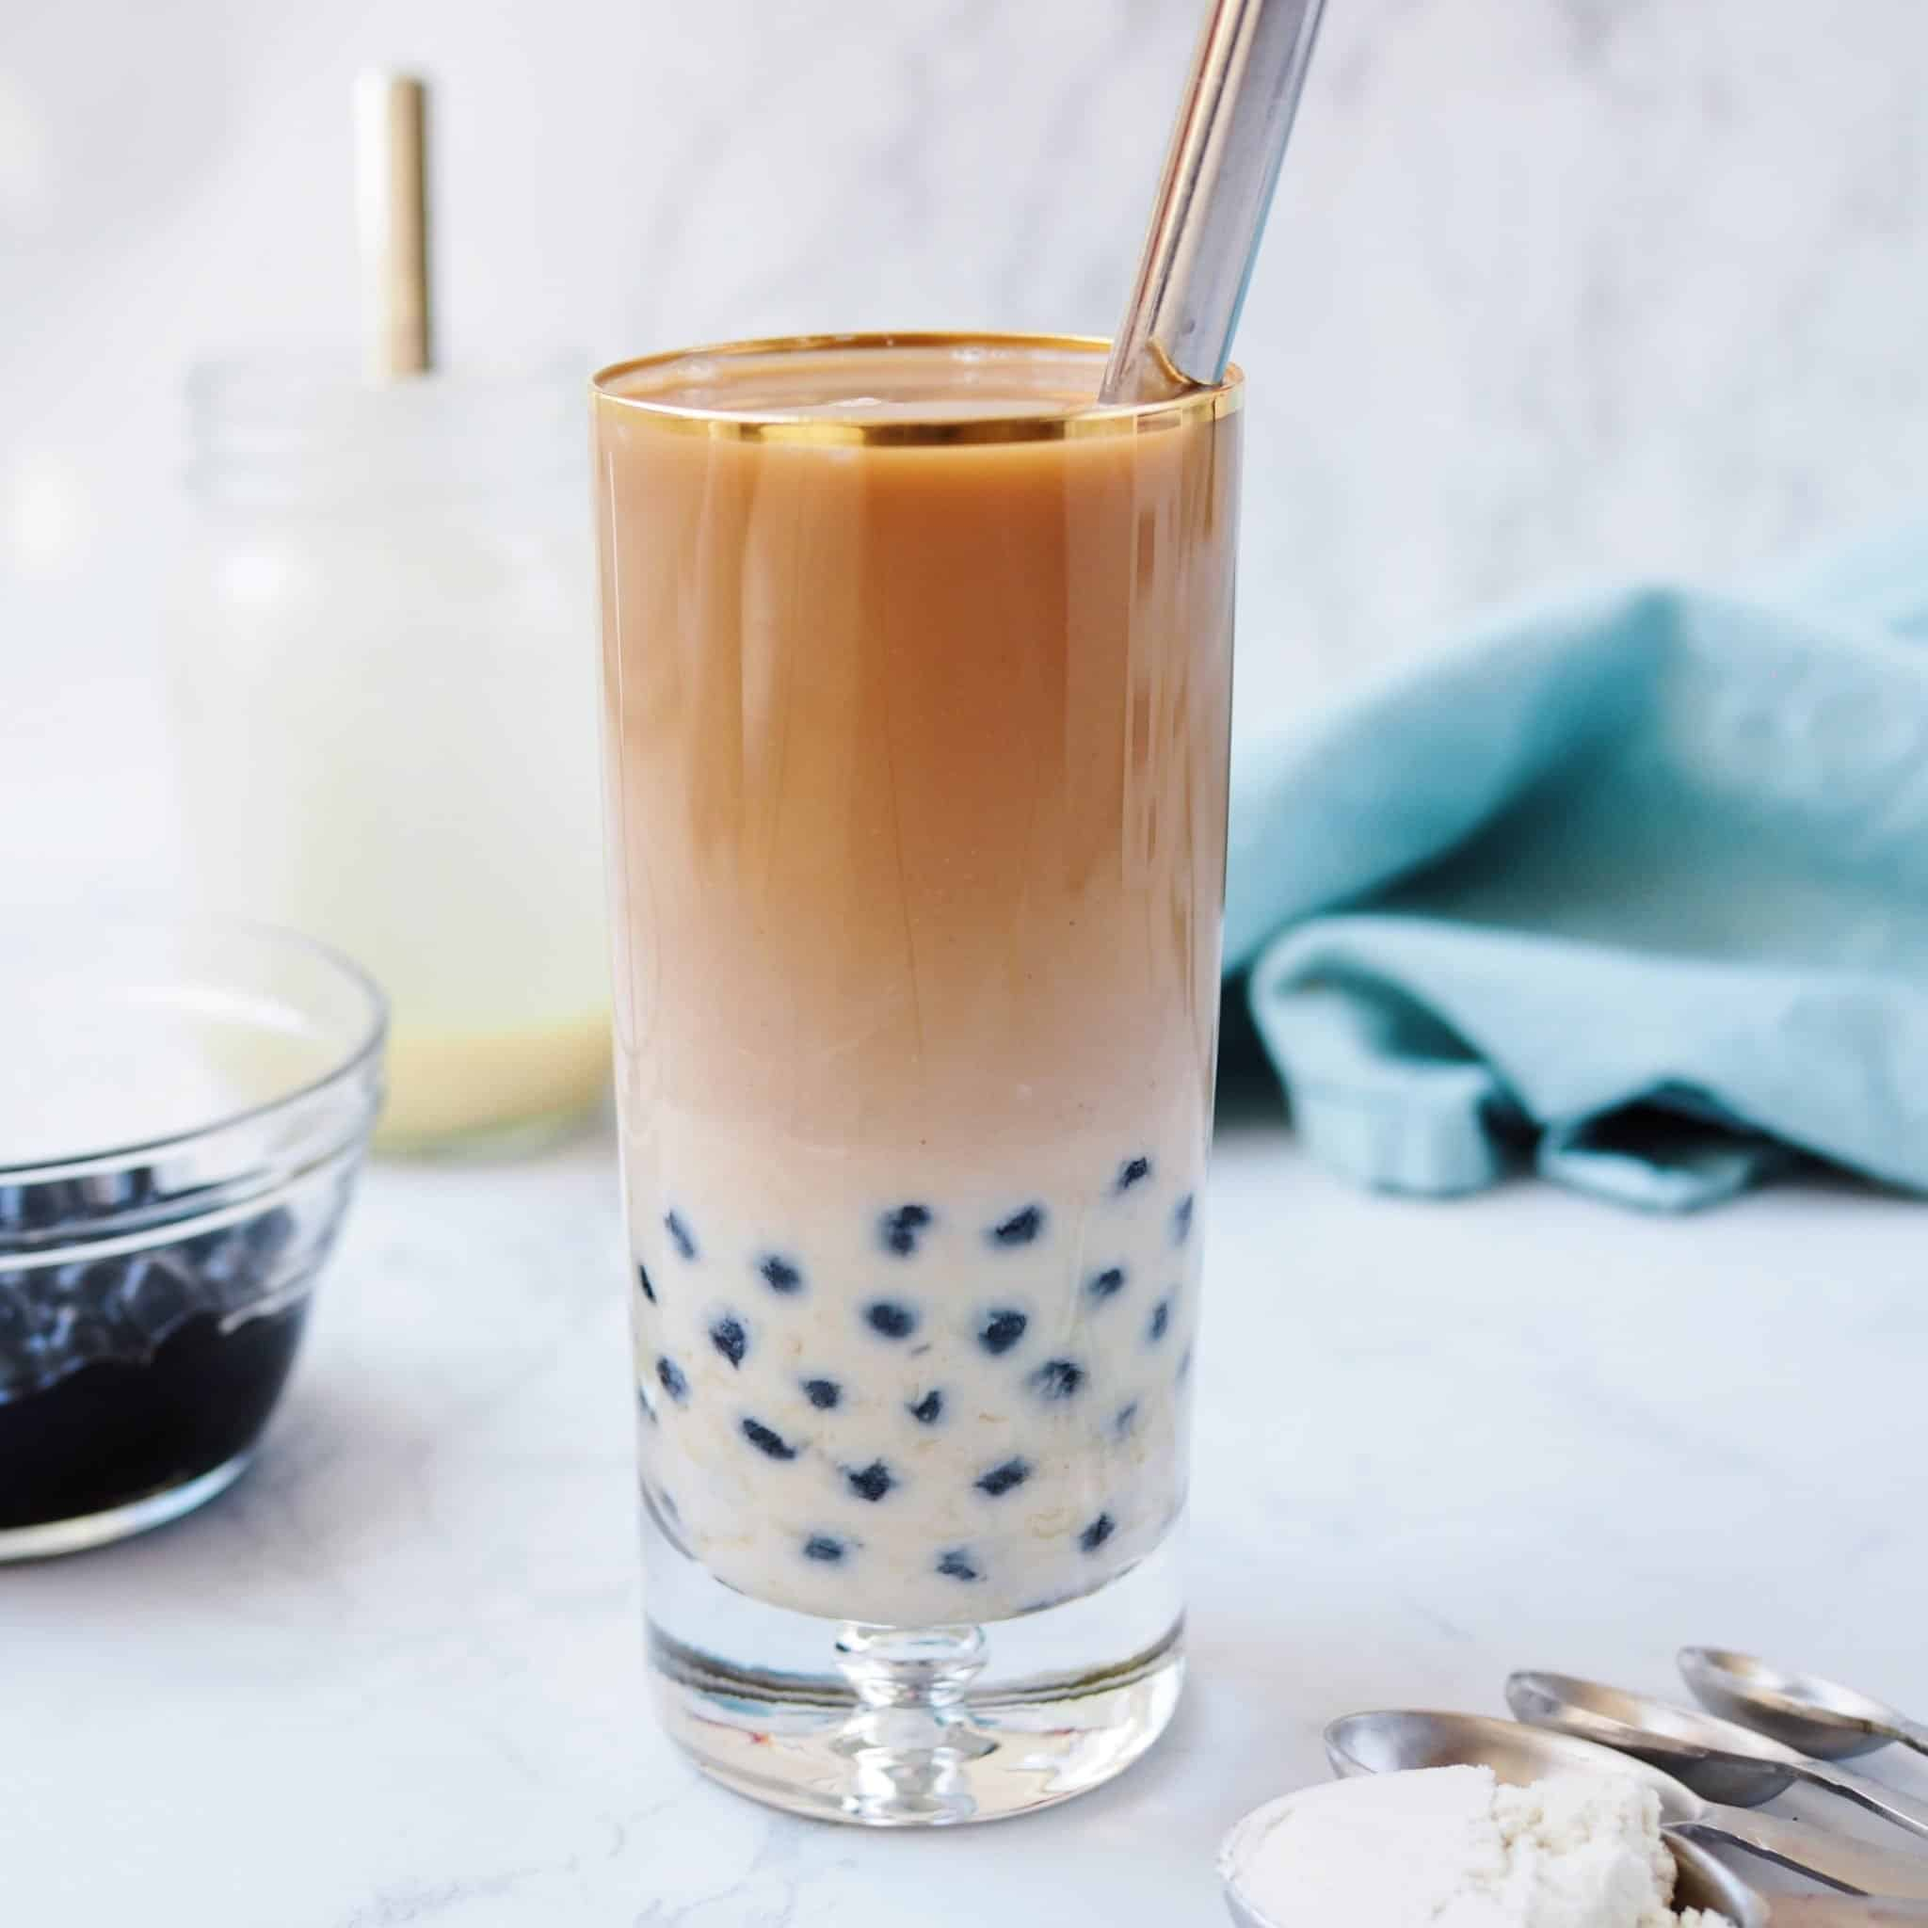
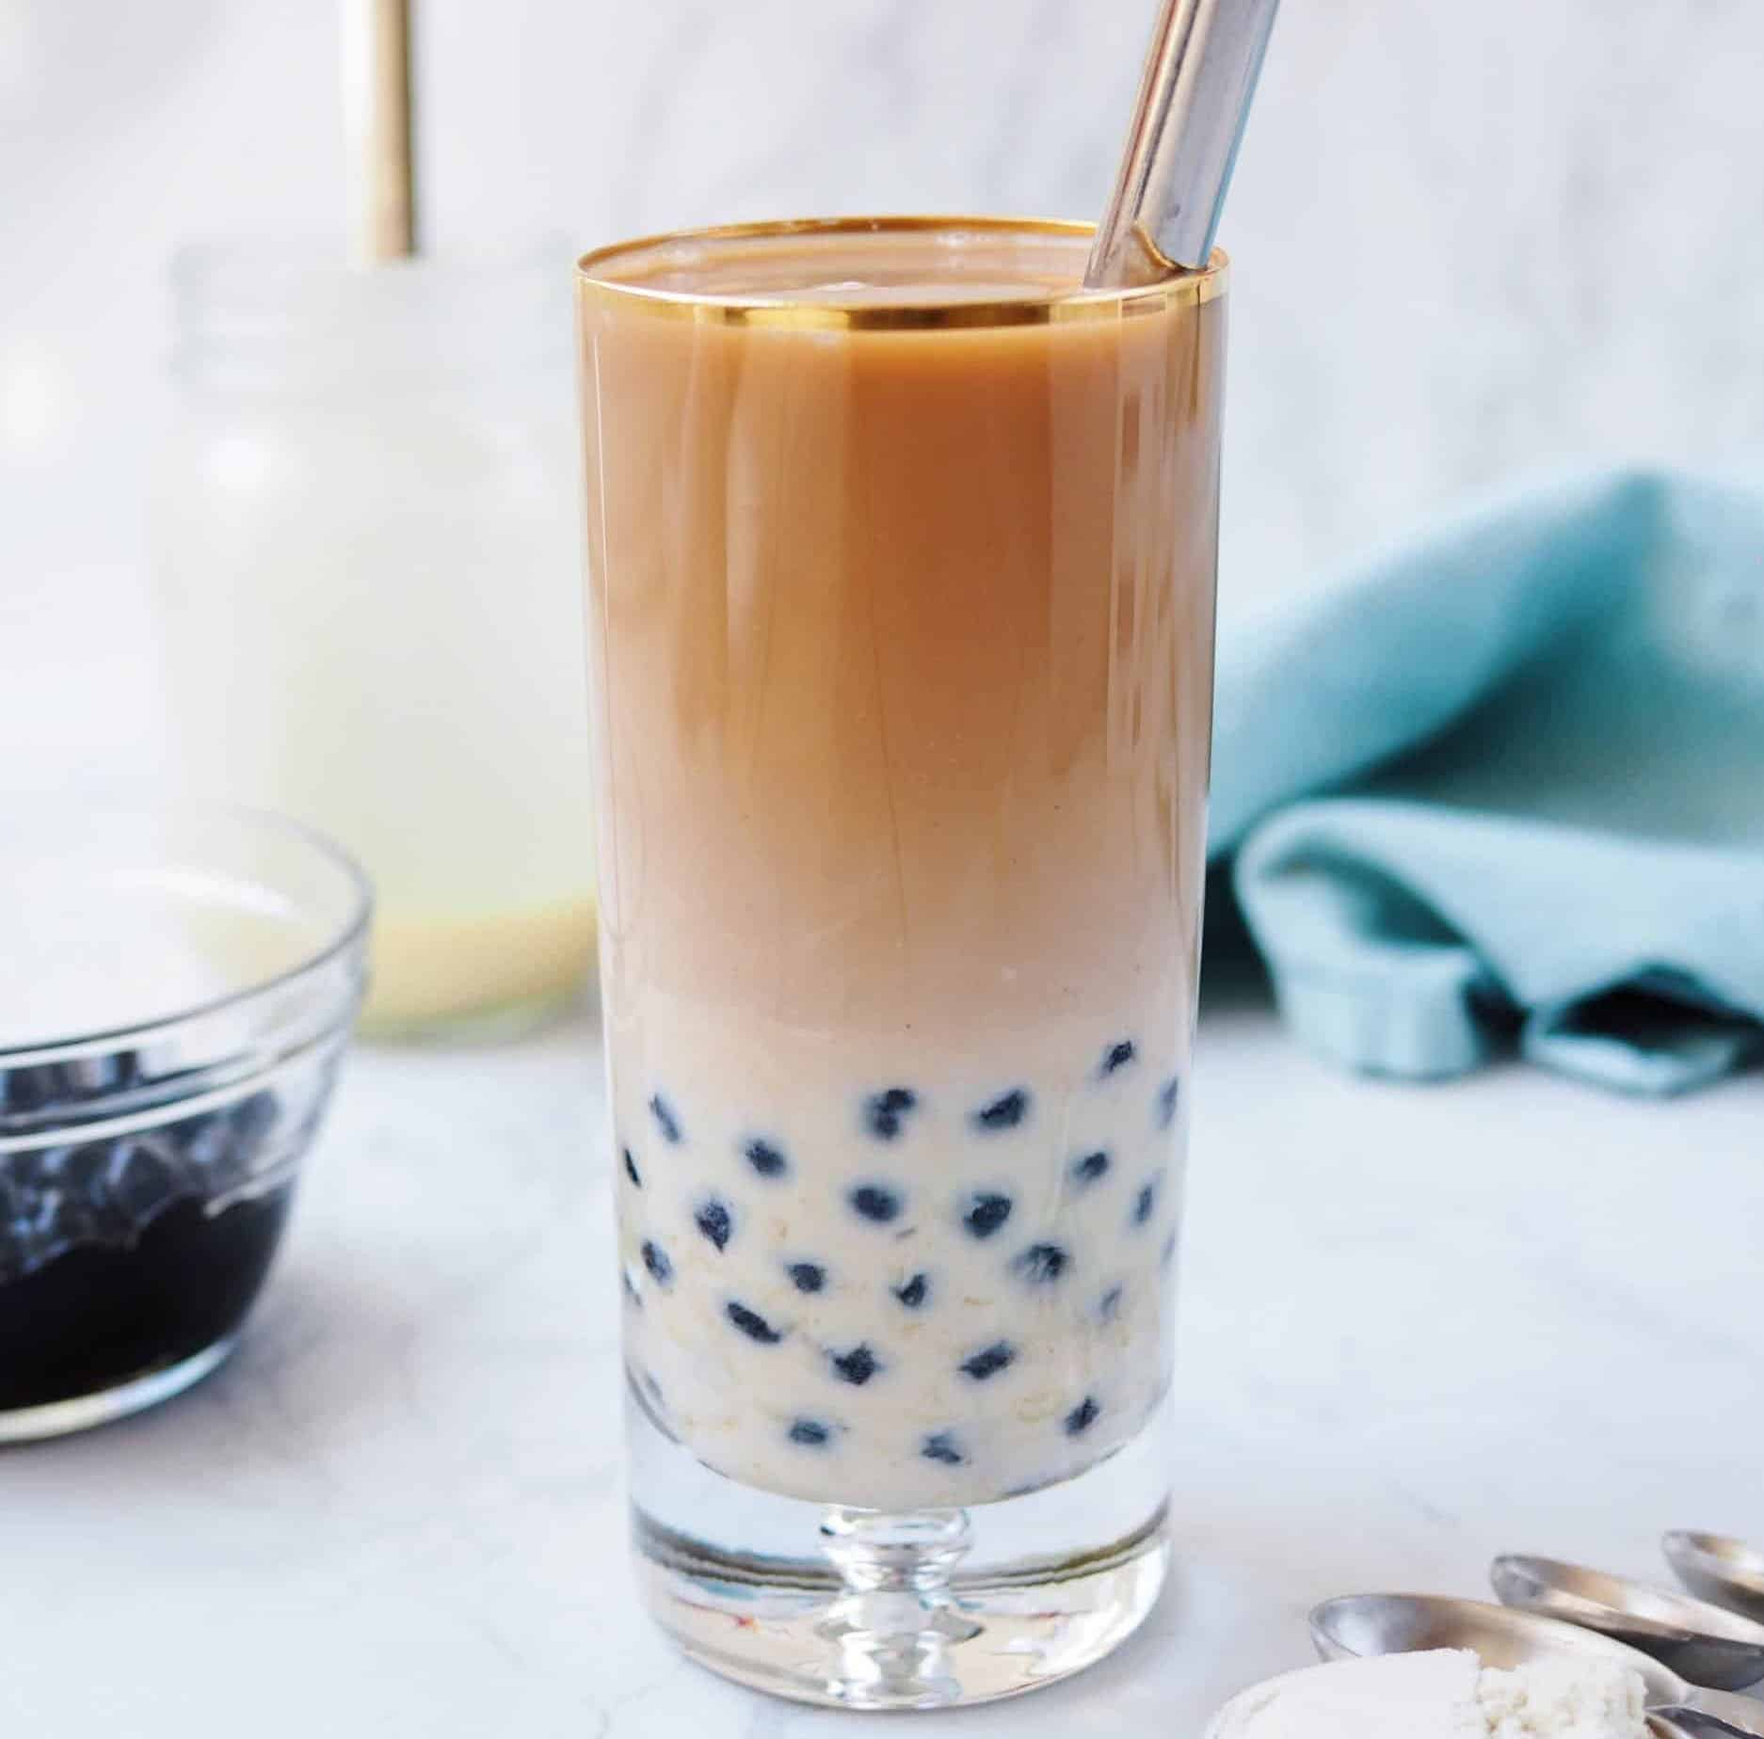
another image added to each tea and images resized

diff --git a/PA1_ecommerceWebsite/styles.css b/PA1_ecommerceWebsite/styles.css
@@ -121,7 +121,9 @@ header{
     grid-template-columns: auto auto auto auto;
   }
   
-
+.prod-item{
+  padding-bottom: 200px;
+}
   
 
 }
@@ -187,6 +189,7 @@ header{
   padding-top: 3vw;
 
 
+
 }
 .prod-view img {
   padding-top: 10px;
@@ -218,6 +221,7 @@ header{
   /* max-height: 100%; */
  /* width: 500px; */
  height: 700px;
+
 
  padding: 10px 25px;
  /* background-color: lightblue; */

diff --git a/PA1_ecommerceWebsite/teas/oolong.html b/PA1_ecommerceWebsite/teas/oolong.html
@@ -28,6 +28,7 @@
       <div class="prod-view">
         <!-- more images -->
         <img src="../images/oolong.jpeg" alt="oolong milk tea">
+        <img src="../images/oolong2.jpeg" alt="oolong milk tea">
         <p style="font-weight: bold; font-size: 20px;"> $4.75</p>
         <!-- detailed description -->
         <p>Oolong milk tea with sugar, cream, and pink Himalayan salt.</p>

diff --git a/PA1_ecommerceWebsite/teas/jasmine.html b/PA1_ecommerceWebsite/teas/jasmine.html
@@ -27,6 +27,7 @@
       <div class="prod-view">
         <!-- more images -->
         <img src="../images/jasmine.jpeg" alt="jasmine milk tea">
+        <img src="../images/jasmine2.jpeg" alt="jasmine milk tea">
         <p style="font-weight: bold; font-size: 20px;"> $4.75</p>
         <!-- detailed description -->
         <p>Our Jasmine tea brewed in house has floral notes

diff --git a/PA1_ecommerceWebsite/teas/coffee.html b/PA1_ecommerceWebsite/teas/coffee.html
@@ -27,6 +27,7 @@
       <div class="prod-view">
         <!-- more images -->
         <img src="../images/coffee.jpeg" alt="coffee milk tea">
+        <img src="../images/coffee2.jpeg" alt="coffee milk tea">
         <p style="font-weight: bold; font-size: 20px;"> $4.75</p>
         <!-- detailed description -->
         <p>Hong Kong style milk tea with slanted coffee jelly.

diff --git a/PA1_ecommerceWebsite/teas/earl.html b/PA1_ecommerceWebsite/teas/earl.html
@@ -28,6 +28,7 @@
       <div class="prod-view">
         <!-- more images -->
         <img src="../images/earl.jpeg" alt="earl grey milk tea">
+        <img src="../images/earl2.jpeg" alt="earl grey milk tea">
         <p style="font-weight: bold; font-size: 20px;"> $4.75</p>
         <!-- detailed description -->
         <p>Brewed from a strong early grey tea and spices 

diff --git a/PA1_ecommerceWebsite/teas/panda.html b/PA1_ecommerceWebsite/teas/panda.html
@@ -28,6 +28,7 @@
       <div class="prod-view">
         <!-- more images -->
         <img src="../images/panda.jpeg" alt="panda milk tea">
+        <img src="../images/panda2.png" alt="panda milk tea">
         <p style="font-weight: bold; font-size: 20px;"> $4.75</p>
         <!-- detailed description -->
         <p>Classic milk tea with black and white tapioca pearls.

diff --git a/PA1_ecommerceWebsite/teas/peach.html b/PA1_ecommerceWebsite/teas/peach.html
@@ -28,6 +28,7 @@
       <div class="prod-view">
         <!-- more images -->
         <img src="../images/peachgreen.jpeg" alt="peach green tea">
+        <img src="../images/peach2.jpeg" alt="peach green tea">
         <p style="font-weight: bold; font-size: 20px;"> $4.75</p>
         <!-- detailed description -->
         <p>Organic premium-grade peach green tea, milk 

diff --git a/PA1_ecommerceWebsite/teas/black.html b/PA1_ecommerceWebsite/teas/black.html
@@ -40,6 +40,7 @@
       <div class="prod-view">
         <!-- more images -->
         <img src="../images/blackmilktea.jpeg" alt="black milk tea">
+        <img src="../images/black2.jpeg" alt="black milk tea">
         <p style="font-weight: bold; font-size: 20px;"> $4.75</p>
         <!-- detailed description -->
         <p>Classic milk tea made with our Tea People 

diff --git a/PA1_ecommerceWebsite/teas/mango.html b/PA1_ecommerceWebsite/teas/mango.html
@@ -28,6 +28,7 @@
       <div class="prod-view">
         <!-- more images -->
         <img src="../images/mango.jpeg" alt="mango lychee tea">
+        <img src="../images/mango2.jpeg" alt="mango lychee tea">
         <p style="font-weight: bold; font-size: 20px;"> $4.75</p>
       <!-- detailed description -->
         <p>Sinfully sweet and tantalizingly tropical, 

diff --git a/PA1_ecommerceWebsite/teas/thai.html b/PA1_ecommerceWebsite/teas/thai.html
@@ -29,6 +29,7 @@
 
         <!-- more images -->
         <img src="../images/thaitea.jpeg" alt="thai iced tea">
+        <img src="../images/thai2.jpeg" alt="thai iced tea">
         <p style="font-weight: bold; font-size: 20px;"> $5.15</p>
         <!-- detailed description -->
         <p>A strongly brewed black tea that is spiced with 

diff --git a/PA1_ecommerceWebsite/teas/taro.html b/PA1_ecommerceWebsite/teas/taro.html
@@ -28,6 +28,7 @@
       <div class="prod-view">
         <!-- more images -->
         <img src="../images/taro.jpeg" alt="taro milk tea">
+        <img src="../images/taro2.jpeg" alt="taro milk tea">
         <p style="font-weight: bold; font-size: 20px;"> $5.15</p>
         <!-- detailed description -->
 
